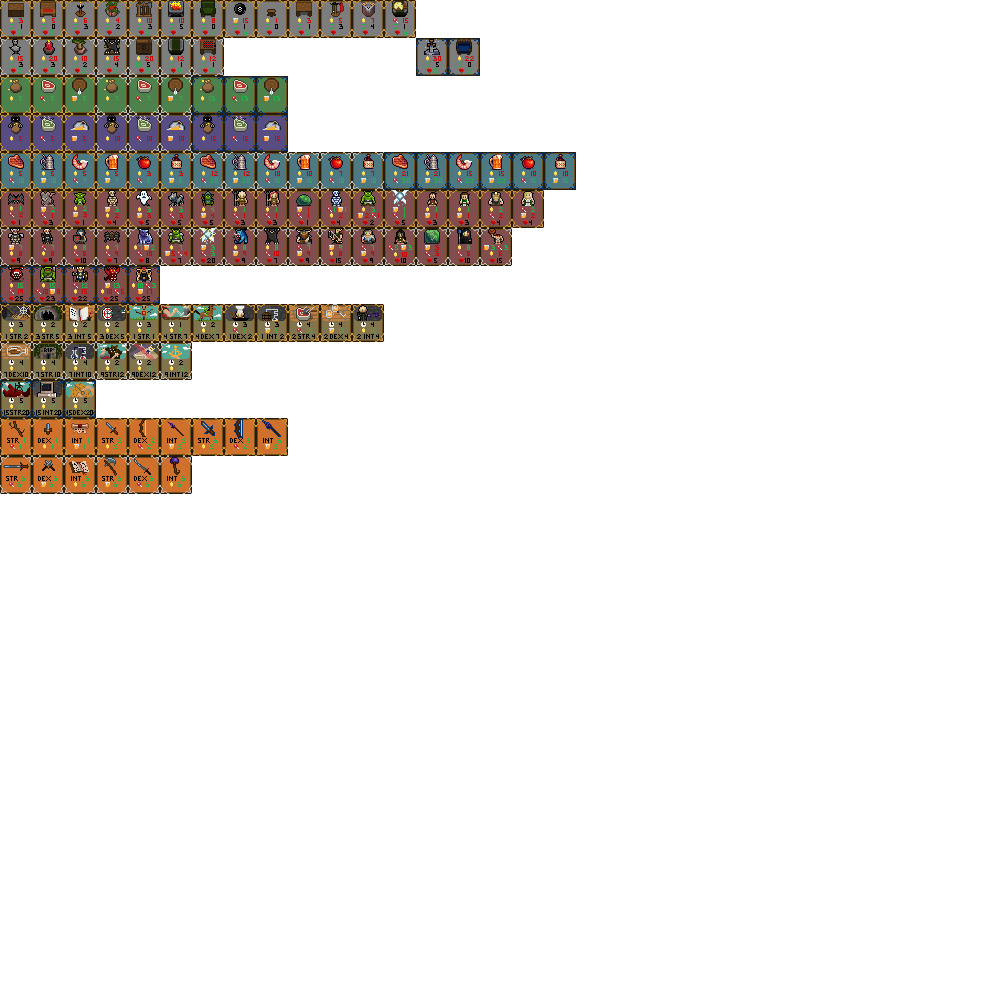
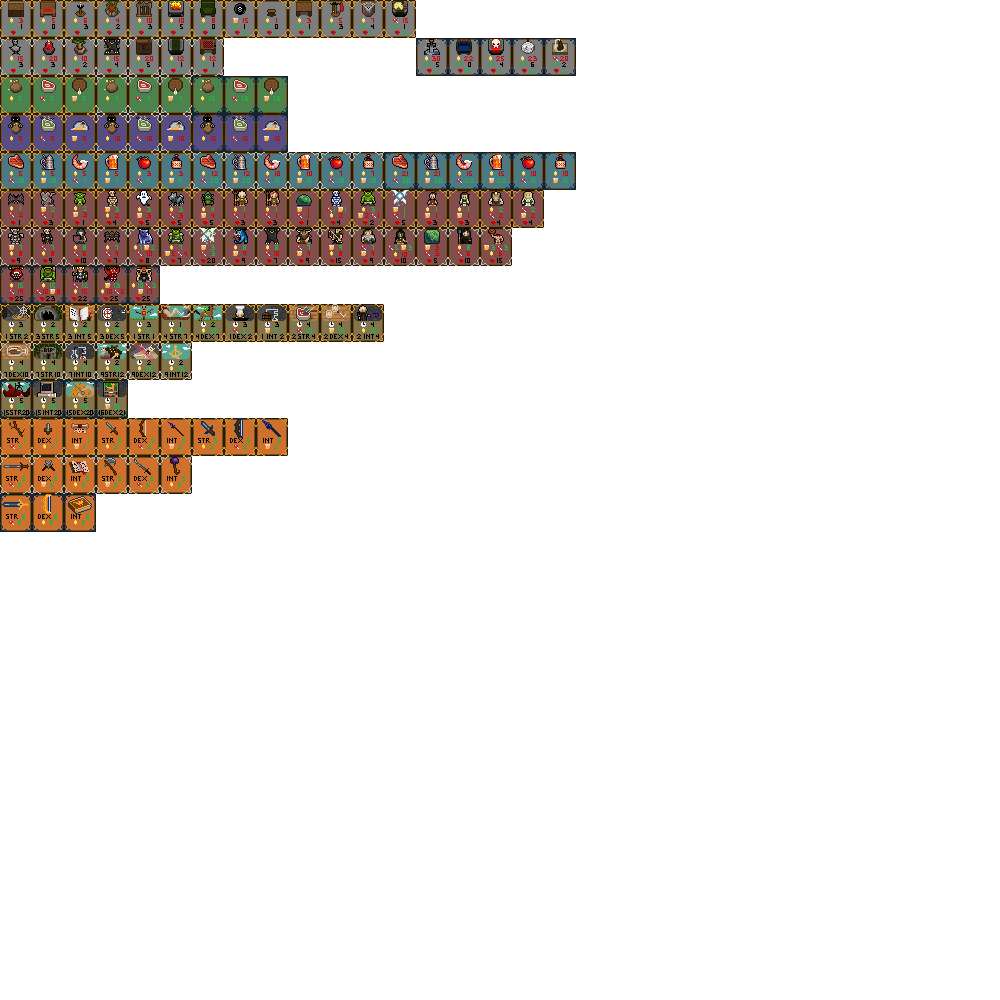
Added more rare cards

Changed region(s): [[0.465, 0.031, 0.589, 0.093], [0.0, 0.496, 0.093, 0.558], [0.093, 0.372, 0.124, 0.434]]

diff --git a/db.js b/db.js
@@ -20,7 +20,9 @@ var OBJECTSPRITES = {
     "stonetable" : new Vector2D(5,1),
     "gametable" : new Vector2D(6,1),
     "swordinstone" : new Vector2D(13,1),
-    "kingschair" : new Vector2D(14,1)
+    "kingschair" : new Vector2D(14,1),
+    "darkskull" : new Vector2D(15,1),
+    "discoball" : new Vector2D(16,1)
 }
 
 var BUFFCURSESPRITES = {
@@ -128,7 +130,8 @@ var QUESTCARDSPRITES = {
 
     "slaydragon" : new Vector2D(0,10),
     "compiler" : new Vector2D(1,10),
-    "needle" : new Vector2D(2,10)
+    "needle" : new Vector2D(2,10),
+    "buckhunterquest" : new Vector2D(3,10)
 }
 
 var ITEMCARDSPRITES = {
@@ -146,7 +149,10 @@ var ITEMCARDSPRITES = {
     "spellbook" : new Vector2D(2,12),
     "battleaxe" : new Vector2D(3,12),
     "katana" : new Vector2D(4,12),
-    "scepter" : new Vector2D(5,12)
+    "scepter" : new Vector2D(5,12),
+    "justicebringer" : new Vector2D(0,13),
+    "trueaim" : new Vector2D(1,13),
+    "monsterbook" : new Vector2D(2,13)
 }
 
 var RSCTYPECHANCE = 0.5;
@@ -510,6 +516,15 @@ class Database
         this.objectCardsRare.push(new ObjectCard(OBJECTSPRITES["kingschair"].x, OBJECTSPRITES["kingschair"].y,
                                             OBJECTSPRITES["kingschair"].x, OBJECTSPRITES["kingschair"].y, 12, 0, true, undefined,
                                             new ResourceUpkeep(this.gold, -22), "King's Chair"));
+        this.objectCardsRare.push(new ObjectCard(OBJECTSPRITES["darkskull"].x, OBJECTSPRITES["darkskull"].y,
+                                            OBJECTSPRITES["darkskull"].x, OBJECTSPRITES["darkskull"].y, 5, 4, false, "#b60c1e33",
+                                            new ResourceUpkeep(this.gold, -25), "The Dark Skull"));
+        this.objectCardsRare.push(new ObjectCard(OBJECTSPRITES["discoball"].x, OBJECTSPRITES["discoball"].y,
+                                            OBJECTSPRITES["discoball"].x, OBJECTSPRITES["discoball"].y, 3, 6, true, "#b67348ac",
+                                            new ResourceUpkeep(this.gold, -23), "Disco Ball"));
+        this.objectCardsRare.push(new ObjectCard(OBJECTSPRITES["chocolatefountain"].x, OBJECTSPRITES["chocolatefountain"].y,
+                                            OBJECTSPRITES["chocolatefountain"].x, OBJECTSPRITES["chocolatefountain"].y, 5, 2, false, undefined,
+                                            new ResourceUpkeep(this.food, -20), "Chocolate Fountain"));
     }
 
     LoadbuffCardsCommon()
@@ -829,6 +844,9 @@ class Database
         this.questCardsRare.push(new QuestCard(QUESTCARDSPRITES["needle"].x, QUESTCARDSPRITES["needle"].y,
                                        QUESTCARDSPRITES["needle"].x, QUESTCARDSPRITES["needle"].y,
                                       15, 20, STATTYPE_DEX, 5, [new ResourceUpkeep(this.gold, 40)], "Find the Needle in the Haystack")); 
+        this.questCardsRare.push(new QuestCard(QUESTCARDSPRITES["buckhunterquest"].x, QUESTCARDSPRITES["buckhunterquest"].y,
+                                      QUESTCARDSPRITES["buckhunterquest"].x, QUESTCARDSPRITES["buckhunterquest"].y,
+                                     16, 21, STATTYPE_DEX, 1, [new ResourceUpkeep(this.gold, 16)], "Buck Hunter Cabinet High Score")); 
     }
 
     LoadItemCards()
@@ -879,5 +897,15 @@ class Database
         this.itemCardsUncommon.push(new ItemCard(ITEMCARDSPRITES["scepter"].x, ITEMCARDSPRITES["scepter"].y,
                                     ITEMCARDSPRITES["scepter"].x, ITEMCARDSPRITES["scepter"].y,
                                     new CharacterStats(3,0,0), [new ResourceUpkeep(this.gold, 3)],4,"Scepter"));
+
+        this.itemCardsUncommon.push(new ItemCard(ITEMCARDSPRITES["justicebringer"].x, ITEMCARDSPRITES["justicebringer"].y,
+                                    ITEMCARDSPRITES["justicebringer"].x, ITEMCARDSPRITES["justicebringer"].y,
+                                    new CharacterStats(0,6,0), [new ResourceUpkeep(this.food, 6)],8,"Justice Bringer"));
+        this.itemCardsUncommon.push(new ItemCard(ITEMCARDSPRITES["trueaim"].x, ITEMCARDSPRITES["trueaim"].y,
+                                    ITEMCARDSPRITES["trueaim"].x, ITEMCARDSPRITES["trueaim"].y,
+                                    new CharacterStats(0,0,6), [new ResourceUpkeep(this.gold, 6)],8,"True Aim"));
+        this.itemCardsUncommon.push(new ItemCard(ITEMCARDSPRITES["monsterbook"].x, ITEMCARDSPRITES["monsterbook"].y,
+                                    ITEMCARDSPRITES["monsterbook"].x, ITEMCARDSPRITES["monsterbook"].y,
+                                    new CharacterStats(6,0,0), [new ResourceUpkeep(this.gold, 6)],8,"Book of Monsters"));
     }
 }
